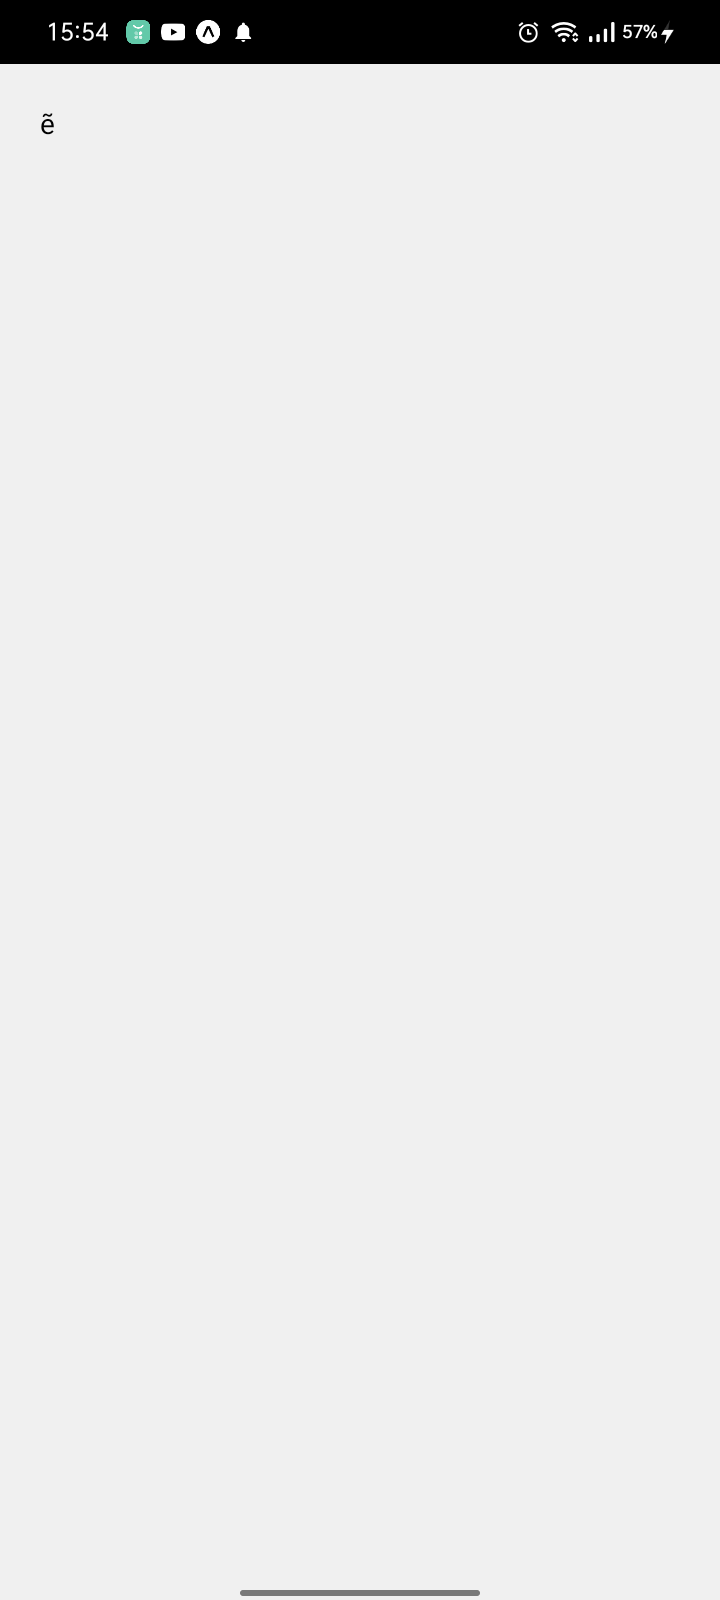
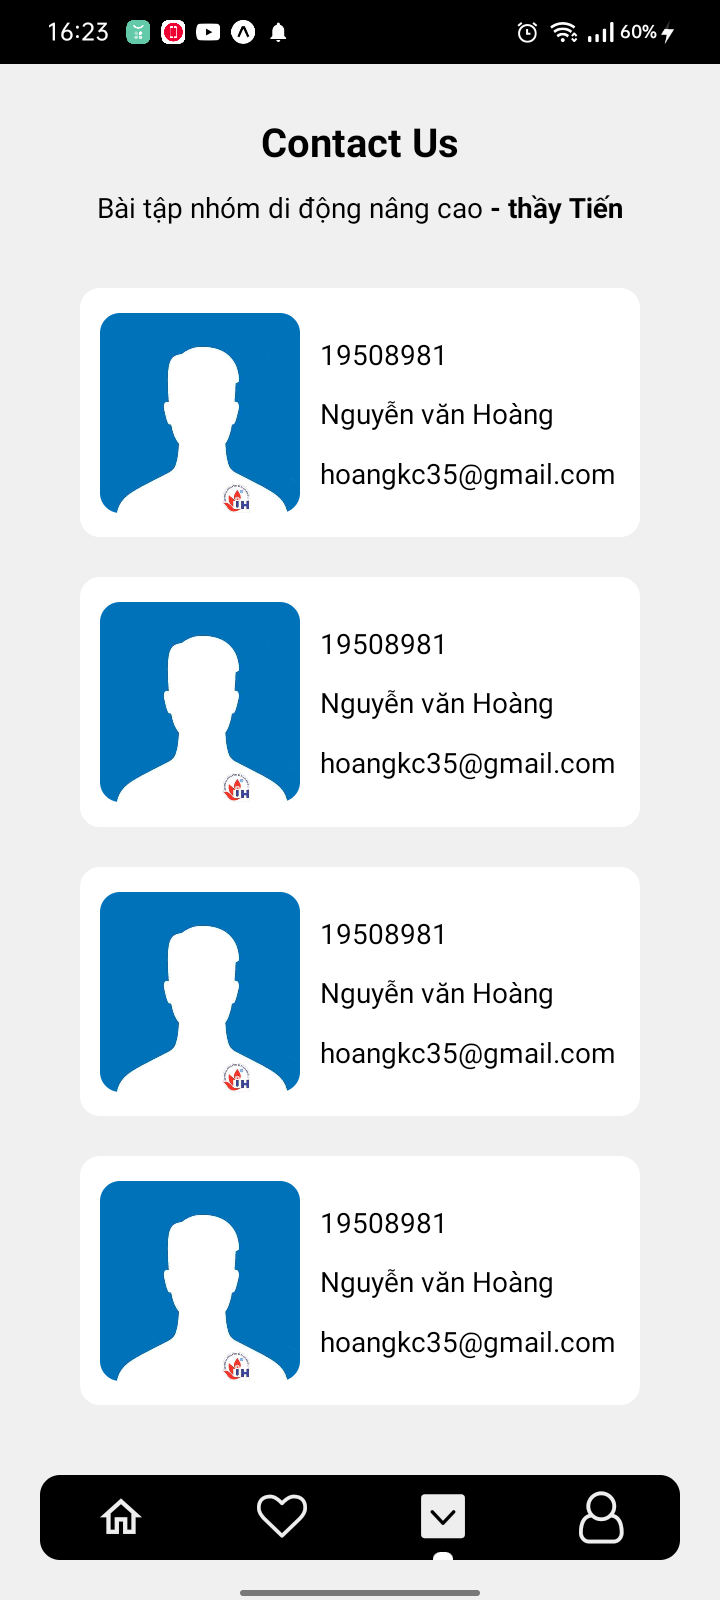
finish screen 13( 85 % )

diff --git a/src/components/ComponentContactUs.js b/src/components/ComponentContactUs.js
@@ -1,12 +1,32 @@
-import { View, Text, Button, StatusBar, TouchableOpacity } from 'react-native'
+import { View, Text, Button, StatusBar, TouchableOpacity, Image } from 'react-native'
 import React from 'react'
 import IconFontAwesome from 'react-native-vector-icons/FontAwesome'
 import IconMaterialCommunityIcons from 'react-native-vector-icons/MaterialCommunityIcons'
+import IconAntDesign from 'react-native-vector-icons/AntDesign'
 
 import styles from '../themes/styles';
 import color from '../themes/color';
 
 const ComponentContactUs = ({ navigation }) => {
+
+    //
+    let z_item ={
+        id: 19508981,
+        name: 'Nguyễn văn Hoàng',
+        email: 'hoangkc35@gmail.com'
+    }
+
+    // menu bar
+    let styleMenuBarName = 3;
+    // let styleMenuBarStyle = styles.menuClick;
+    let styleMenuBarStyle = (val) => {
+        if (val === styleMenuBarName) {
+            return styles.menuClick;
+        }
+        return null;
+    };
+
+
     return (
         <View style={[styles.flex_1, {
             backgroundColor: color.color_bg,
@@ -14,10 +34,120 @@ const ComponentContactUs = ({ navigation }) => {
         }]} >
             <StatusBar />
             {/*  */}
-           <Text>ẽ</Text>
+            <View style={[styles.row, { marginTop: 5, alignItems: 'center', marginBottom: 10, }]} >
+
+                <Text style={[styles.flex_1, { textAlign: 'center', fontWeight: 'bold', fontSize: 20 }]} >Contact Us</Text>
+
+            </View>
+            <View style={[styles.row, { height: 20, justifyContent: 'center' }]} >
+                <Text  >Bài tập nhóm di động nâng cao</Text>
+                <Text style={[, { fontWeight: 'bold' }]} > - thầy Tiến</Text>
+            </View>
+
+            {/*  */}
+            <View style={[styles.flex_1, {  margin: 20, }]}   >
+                <View style={[styles.flex_1, styles.row, {
+                    alignItems:'center',
+                    marginVertical: 10,
+                    paddingHorizontal: 10,
+                    backgroundColor: '#fff',
+                    borderRadius: 10,
+                }]}  >
+                    <Image style={[, { width: 100, height: 100, borderRadius: 10, }]} source={require('../images/img_scr13_avartar.png')} />
+                    <View style={[styles.flex_1, {marginLeft: 10, height: 100, justifyContent: 'space-evenly',}]} >
+                        <Text>{z_item.id}</Text>
+                        <Text>{z_item.name}</Text>
+                        <Text>{z_item.email}</Text>
+                    </View>
+                </View>
+                {/*  */}
+                <View style={[styles.flex_1, styles.row, {
+                    alignItems:'center',
+                    marginVertical: 10,
+                    paddingHorizontal: 10,
+                    backgroundColor: '#fff',
+                    borderRadius: 10,
+                }]}  >
+                    <Image style={[, { width: 100, height: 100, borderRadius: 10, }]} source={require('../images/img_scr13_avartar.png')} />
+                    <View style={[styles.flex_1, {marginLeft: 10, height: 100, justifyContent: 'space-evenly',}]} >
+                        <Text>{z_item.id}</Text>
+                        <Text>{z_item.name}</Text>
+                        <Text>{z_item.email}</Text>
+                    </View>
+                </View>
+                {/*  */}
+                <View style={[styles.flex_1, styles.row, {
+                    alignItems:'center',
+                    marginVertical: 10,
+                    paddingHorizontal: 10,
+                    backgroundColor: '#fff',
+                    borderRadius: 10,
+                }]}  >
+                    <Image style={[, { width: 100, height: 100, borderRadius: 10, }]} source={require('../images/img_scr13_avartar.png')} />
+                    <View style={[styles.flex_1, {marginLeft: 10, height: 100, justifyContent: 'space-evenly',}]} >
+                        <Text>{z_item.id}</Text>
+                        <Text>{z_item.name}</Text>
+                        <Text>{z_item.email}</Text>
+                    </View>
+                </View>
+                {/*  */}
+                <View style={[styles.flex_1, styles.row, {
+                    alignItems:'center',
+                    marginVertical: 10,
+                    paddingHorizontal: 10,
+                    backgroundColor: '#fff',
+                    borderRadius: 10,
+                }]}  >
+                    <Image style={[, { width: 100, height: 100, borderRadius: 10, }]} source={require('../images/img_scr13_avartar.png')} />
+                    <View style={[styles.flex_1, {marginLeft: 10, height: 100, justifyContent: 'space-evenly',}]} >
+                        <Text>{z_item.id}</Text>
+                        <Text>{z_item.name}</Text>
+                        <Text>{z_item.email}</Text>
+                    </View>
+                </View>
 
 
-            {/* <Button title=' next ' onPress={() => navigation.navigate('Component')} /> */}
+            </View>
+
+
+            {/*  */}
+            <View style={[styles.row, {
+                backgroundColor: '#000',
+                marginTop: 5,
+                borderRadius: 10,
+                justifyContent: 'space-around'
+
+            }]}  >
+                <TouchableOpacity style={[, { padding: 8, paddingHorizontal: 10, alignItems: 'center' }]}
+                    onPress={() => { navigation.navigate('ComponenHome') }}  >
+                    <View style={styleMenuBarStyle(1)}></View>
+                    <IconMaterialCommunityIcons name={styleMenuBarName === 1 ? 'home' : 'home-outline'} size={25} color={'#eee'} />
+                </TouchableOpacity>
+                <TouchableOpacity style={[, { padding: 8, paddingHorizontal: 10, alignItems: 'center' }]}
+                    onPress={() => { navigation.navigate('ComponentFavourite') }}
+                >
+                    <View style={styleMenuBarStyle(2)}></View>
+                    <IconFontAwesome name={styleMenuBarName === 2 ? 'heart' : 'heart-o'} size={25} color={'#eee'} />
+                </TouchableOpacity>
+                <TouchableOpacity style={[, { padding: 8, paddingHorizontal: 10, alignItems: 'center' }]}
+                    onPress={() => { navigation.navigate('ComponentContactUs') }}
+                >
+                    <View style={styleMenuBarStyle(3)}></View>
+                    <IconAntDesign name={styleMenuBarName === 3 ? 'downsquare' : 'down-square-o'} size={25} color={'#eee'} />
+                </TouchableOpacity>
+                <TouchableOpacity
+                    style={[, { padding: 8, paddingHorizontal: 10, alignItems: 'center' }]}
+                    onPress={() => { navigation.navigate('ComponentProfile') }}
+                >
+                    <View style={styleMenuBarStyle(4)}></View>
+                    <IconFontAwesome name={styleMenuBarName === 4 ? 'user' : 'user-o'} size={26} color={'#eee'} />
+                </TouchableOpacity>
+            </View>
+
+
+
+
+            {/* <Button title=' next ' onPress={() => navigation.navigate('ComponentAddress')} /> */}
 
         </View>
     )
